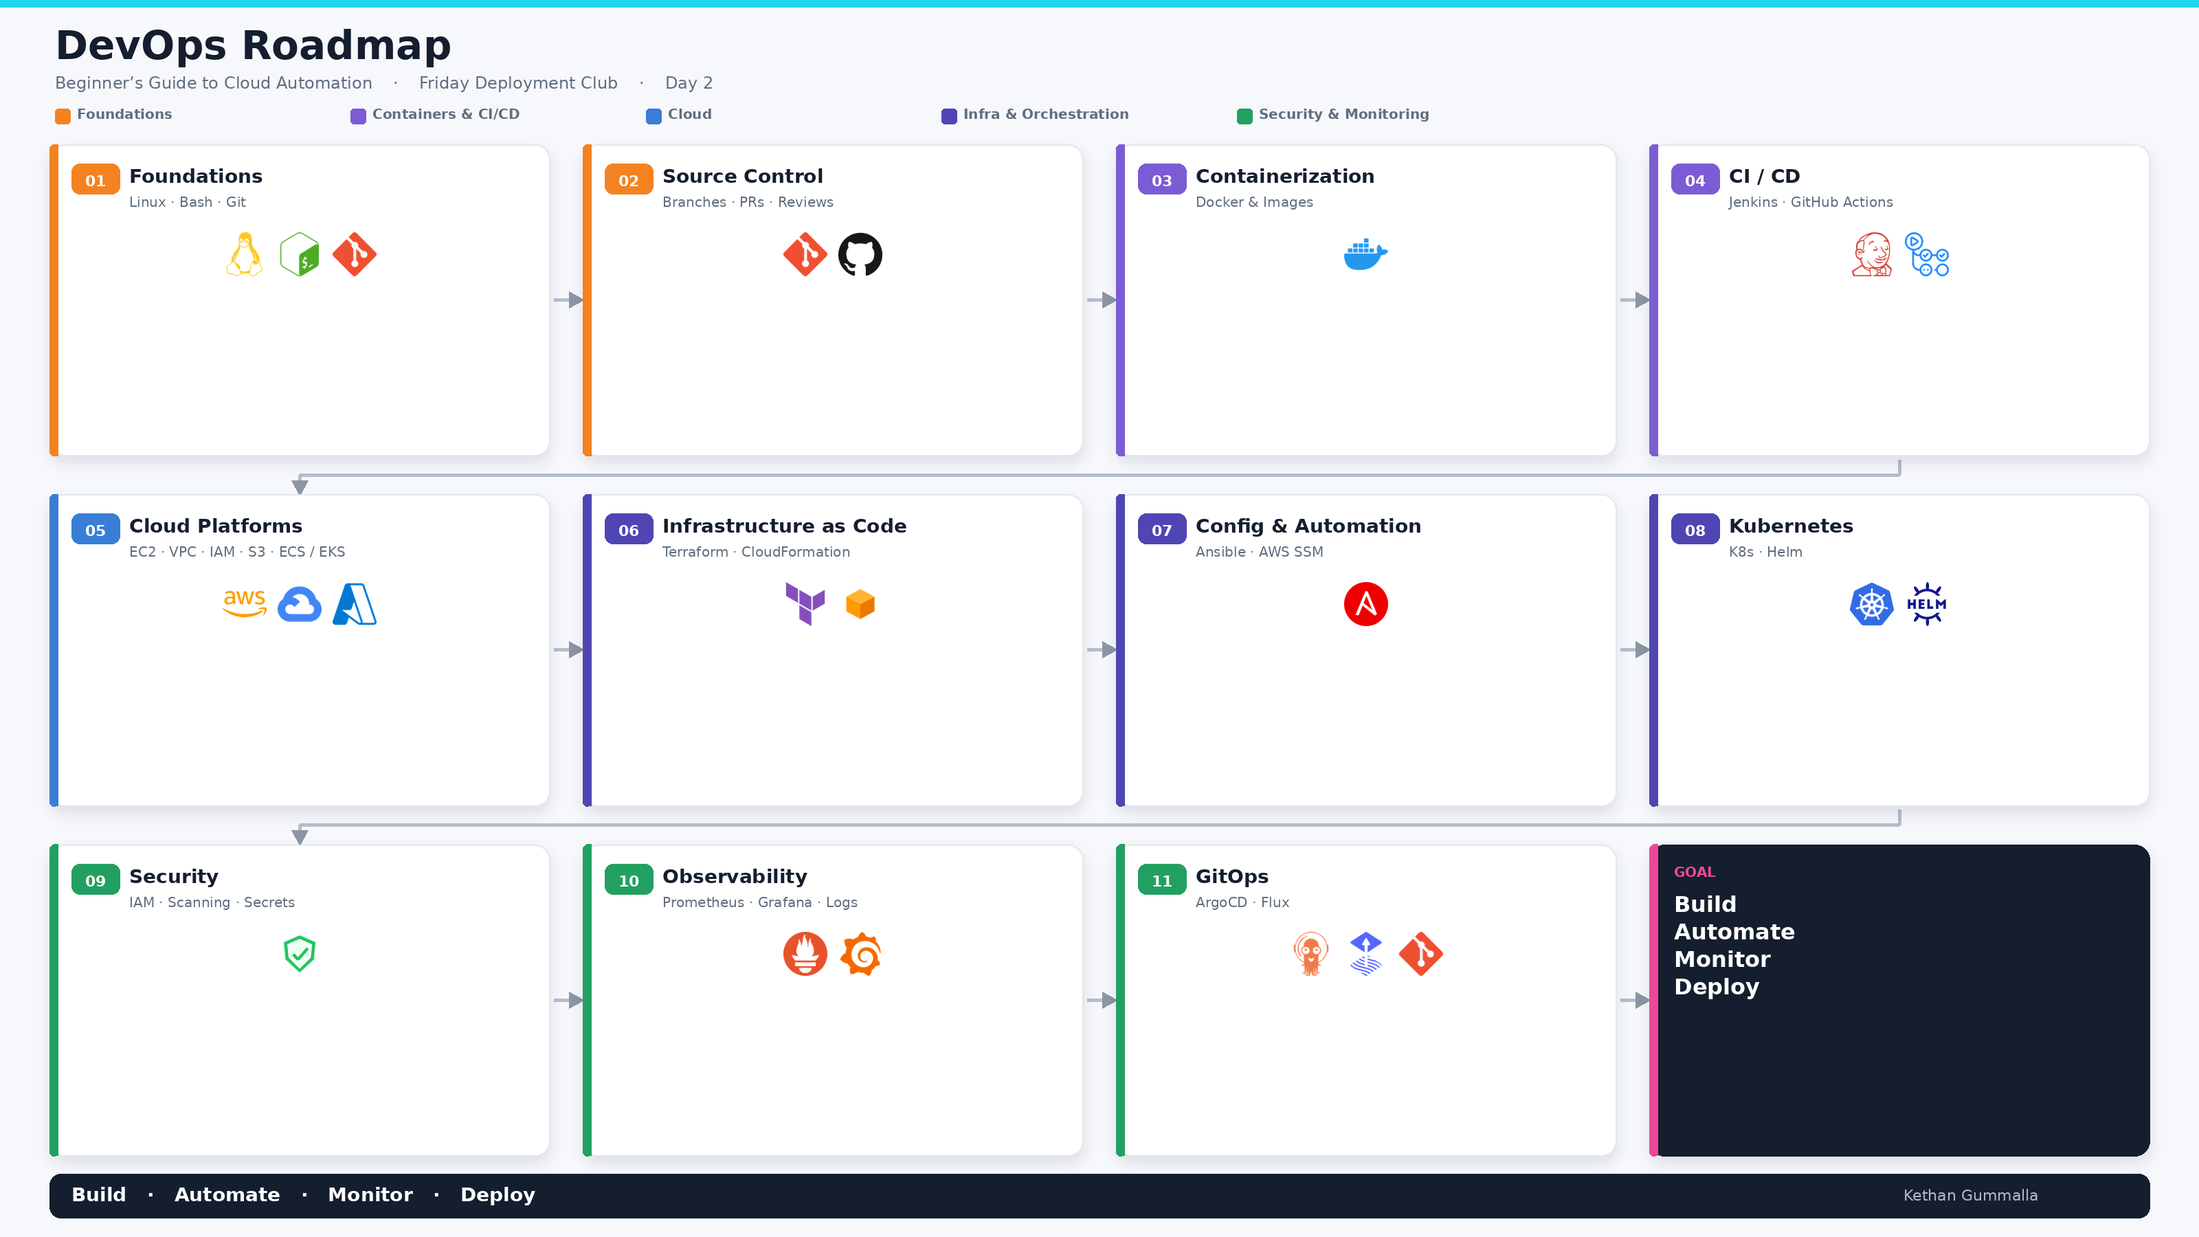
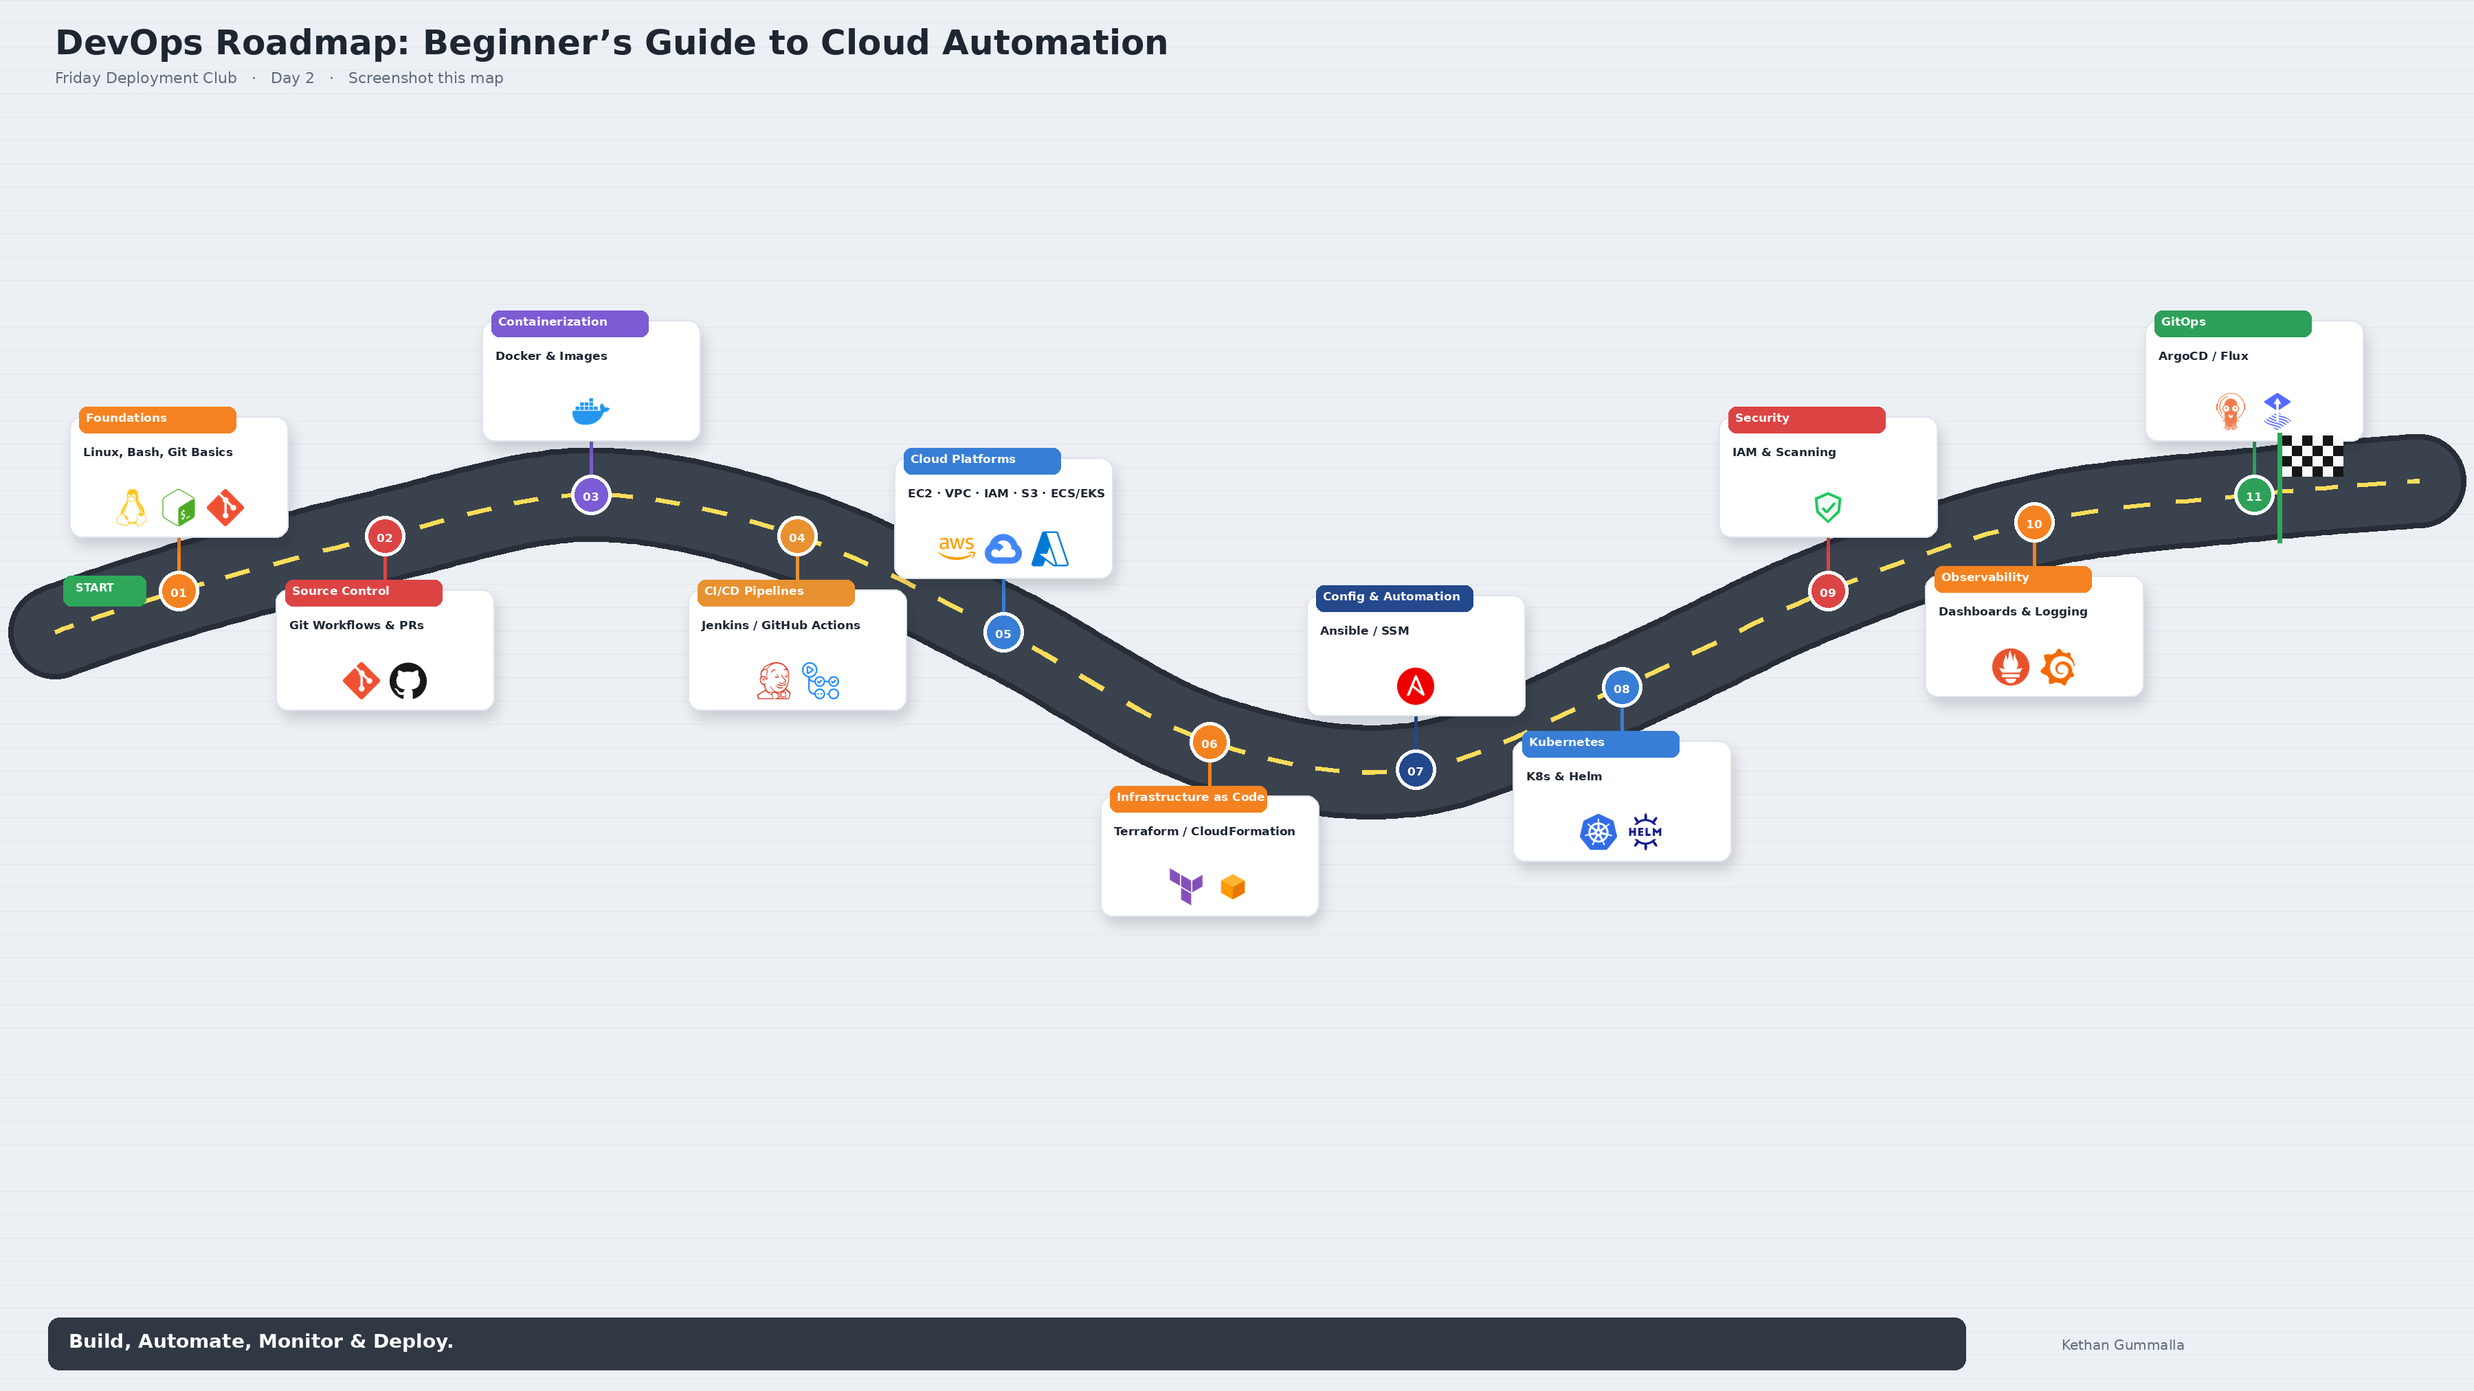
Add on-the-road DevOps infographic preview (pending PPT approval)

diff --git a/fdc-day2/generate_roadmap_infographic.py b/fdc-day2/generate_roadmap_infographic.py
@@ -1,201 +1,209 @@
 #!/usr/bin/env python3
-"""Clean 16:9 DevOps roadmap infographic — equal cards, numbered path."""
+"""Designed on-the-road DevOps infographic (preview before PPT)."""
 
 from pathlib import Path
 from PIL import Image, ImageDraw, ImageFont, ImageFilter
+import math
 
 ROOT = Path(__file__).parent
 LOGOS = ROOT / "assets" / "logos"
 OUT = ROOT / "assets" / "devops_roadmap_infographic.png"
 
-W, H = 3200, 1800
+W, H = 3600, 2025
 
-BG = (246, 248, 252, 255)
+BG = (236, 240, 245, 255)
+INK = (30, 38, 50, 255)
+MUTED = (96, 108, 122, 255)
 WHITE = (255, 255, 255, 255)
-INK = (20, 30, 46, 255)
-MUTED = (96, 110, 126, 255)
-LINE = (226, 232, 240, 255)
-FOOTER = (20, 30, 46, 255)
-
-# Phase accents (match legend)
-P1 = (245, 130, 32)    # Foundations
-P2 = (124, 92, 212)    # Containers & CI/CD
-P3 = (56, 126, 214)    # Cloud
-P4 = (79, 70, 180)     # Infra
-P5 = (34, 160, 98)     # Security & Monitoring
-GOAL = (236, 72, 153)
+ASPHALT = (58, 66, 78, 255)
+EDGE = (40, 46, 56, 255)
+DASH = (255, 220, 80, 240)  # highway yellow
 
 
 def font(size, bold=False):
-    paths = [
-        "/usr/share/fonts/truetype/dejavu/DejaVuSans-Bold.ttf" if bold
-        else "/usr/share/fonts/truetype/dejavu/DejaVuSans.ttf",
-        "/usr/share/fonts/truetype/liberation/LiberationSans-Bold.ttf" if bold
-        else "/usr/share/fonts/truetype/liberation/LiberationSans-Regular.ttf",
-    ]
-    for p in paths:
-        if Path(p).exists():
-            return ImageFont.truetype(p, size)
-    return ImageFont.load_default()
+    p = (
+        "/usr/share/fonts/truetype/dejavu/DejaVuSans-Bold.ttf"
+        if bold
+        else "/usr/share/fonts/truetype/dejavu/DejaVuSans.ttf"
+    )
+    return ImageFont.truetype(p, size)
 
 
 def load_logo(name, size):
-    p = LOGOS / f"{name}.png"
-    if not p.exists():
+    path = LOGOS / f"{name}.png"
+    if not path.exists():
         return None
-    return Image.open(p).convert("RGBA").resize((size, size), Image.Resampling.LANCZOS)
+    return Image.open(path).convert("RGBA").resize((size, size), Image.Resampling.LANCZOS)
 
 
-def shadow(canvas, box, radius=20):
+def catmull(points, n_per=80):
+    """Smooth path through waypoints."""
+    pts = [points[0]] + points + [points[-1]]
+    out = []
+    for i in range(1, len(pts) - 2):
+        p0, p1, p2, p3 = pts[i - 1], pts[i], pts[i + 1], pts[i + 2]
+        for j in range(n_per):
+            t = j / n_per
+            t2, t3 = t * t, t * t * t
+            x = 0.5 * (
+                (2 * p1[0])
+                + (-p0[0] + p2[0]) * t
+                + (2 * p0[0] - 5 * p1[0] + 4 * p2[0] - p3[0]) * t2
+                + (-p0[0] + 3 * p1[0] - 3 * p2[0] + p3[0]) * t3
+            )
+            y = 0.5 * (
+                (2 * p1[1])
+                + (-p0[1] + p2[1]) * t
+                + (2 * p0[1] - 5 * p1[1] + 4 * p2[1] - p3[1]) * t2
+                + (-p0[1] + 3 * p1[1] - 3 * p2[1] + p3[1]) * t3
+            )
+            out.append((x, y))
+    out.append(points[-1])
+    return out
+
+
+def draw_road(canvas, pts, width=118):
+    layer = Image.new("RGBA", canvas.size, (0, 0, 0, 0))
+    d = ImageDraw.Draw(layer)
+    re, r = width // 2 + 8, width // 2
+    for x, y in pts[::2]:
+        d.ellipse((x - re, y - re, x + re, y + re), fill=EDGE)
+    for x, y in pts[::2]:
+        d.ellipse((x - r, y - r, x + r, y + r), fill=ASPHALT)
+    acc, on, last = 0.0, True, pts[0]
+    for p in pts[4::4]:
+        dist = math.hypot(p[0] - last[0], p[1] - last[1])
+        if on:
+            d.line([last, p], fill=DASH, width=7)
+        acc += dist
+        if acc >= 28:
+            acc, on = 0.0, not on
+        last = p
+    canvas.alpha_composite(layer)
+
+
+def card_shadow(canvas, box):
     x0, y0, x1, y1 = box
     layer = Image.new("RGBA", canvas.size, (0, 0, 0, 0))
     d = ImageDraw.Draw(layer)
-    d.rounded_rectangle((x0, y0 + 10, x1, y1 + 10), radius=radius, fill=(15, 25, 40, 28))
-    canvas.alpha_composite(layer.filter(ImageFilter.GaussianBlur(10)))
+    d.rounded_rectangle((x0 + 5, y0 + 12, x1 + 5, y1 + 12), radius=20, fill=(18, 26, 38, 40))
+    canvas.alpha_composite(layer.filter(ImageFilter.GaussianBlur(9)))
 
 
+# Designed rest-stop coordinates (x, y) on the highway
+# Gentle valley in the middle, even spacing, room for cards above/below
+PINS = [
+    (260, 860),
+    (560, 780),
+    (860, 720),
+    (1160, 780),
+    (1460, 920),
+    (1760, 1080),
+    (2060, 1120),
+    (2360, 1000),
+    (2660, 860),
+    (2960, 760),
+    (3280, 720),
+]
+
+# side: "up" or "down"
 STOPS = [
-    (0, 0, "01", "Foundations", "Linux · Bash · Git", ["linux", "bash", "git"], P1),
-    (0, 1, "02", "Source Control", "Branches · PRs · Reviews", ["git", "github"], P1),
-    (0, 2, "03", "Containerization", "Docker & Images", ["docker"], P2),
-    (0, 3, "04", "CI / CD", "Jenkins · GitHub Actions", ["jenkins", "githubactions"], P2),
-    (1, 0, "05", "Cloud Platforms", "EC2 · VPC · IAM · S3 · ECS / EKS", ["amazonaws", "googlecloud", "microsoftazure"], P3),
-    (1, 1, "06", "Infrastructure as Code", "Terraform · CloudFormation", ["terraform", "cloudformation"], P4),
-    (1, 2, "07", "Config & Automation", "Ansible · AWS SSM", ["ansible"], P4),
-    (1, 3, "08", "Kubernetes", "K8s · Helm", ["kubernetes", "helm"], P4),
-    (2, 0, "09", "Security", "IAM · Scanning · Secrets", ["security"], P5),
-    (2, 1, "10", "Observability", "Prometheus · Grafana · Logs", ["prometheus", "grafana"], P5),
-    (2, 2, "11", "GitOps", "ArgoCD · Flux", ["argocd", "flux", "git"], P5),
+    ("01", "Foundations", "Linux, Bash, Git Basics", ["linux", "bash", "git"], (245, 130, 32), "up"),
+    ("02", "Source Control", "Git Workflows & PRs", ["git", "github"], (220, 68, 68), "down"),
+    ("03", "Containerization", "Docker & Images", ["docker"], (124, 92, 212), "up"),
+    ("04", "CI/CD Pipelines", "Jenkins / GitHub Actions", ["jenkins", "githubactions"], (232, 145, 48), "down"),
+    ("05", "Cloud Platforms", "EC2 · VPC · IAM · S3 · ECS/EKS", ["amazonaws", "googlecloud", "microsoftazure"], (56, 126, 214), "up"),
+    ("06", "Infrastructure as Code", "Terraform / CloudFormation", ["terraform", "cloudformation"], (245, 130, 32), "down"),
+    ("07", "Config & Automation", "Ansible / SSM", ["ansible"], (36, 72, 140), "up"),
+    ("08", "Kubernetes", "K8s & Helm", ["kubernetes", "helm"], (56, 126, 214), "down"),
+    ("09", "Security", "IAM & Scanning", ["security"], (220, 68, 68), "up"),
+    ("10", "Observability", "Dashboards & Logging", ["prometheus", "grafana"], (245, 130, 32), "down"),
+    ("11", "GitOps", "ArgoCD / Flux", ["argocd", "flux"], (46, 160, 90), "up"),
 ]
 
 
 def main():
     canvas = Image.new("RGBA", (W, H), BG)
     draw = ImageDraw.Draw(canvas)
+    for y in range(0, H, 34):
+        draw.line((0, y, W, y), fill=(226, 230, 236, 255), width=1)
 
-    draw.rectangle((0, 0, W, 10), fill=(34, 211, 238, 255))
+    draw.text((80, 32), "DevOps Roadmap: Beginner’s Guide to Cloud Automation",
+              font=font(50, True), fill=INK)
+    draw.text((80, 100), "Friday Deployment Club   ·   Day 2   ·   Screenshot this map",
+              font=font(22, False), fill=MUTED)
 
-    draw.text((80, 32), "DevOps Roadmap", font=font(58, True), fill=INK)
-    draw.text((80, 106), "Beginner’s Guide to Cloud Automation    ·    Friday Deployment Club    ·    Day 2",
-              font=font(24, False), fill=MUTED)
+    # extend road a bit past first/last pin
+    waypoints = [(80, 920)] + PINS + [(3520, 700)]
+    path = catmull(waypoints, n_per=70)
+    draw_road(canvas, path, width=120)
 
-    legend = [
-        (P1, "Foundations"),
-        (P2, "Containers & CI/CD"),
-        (P3, "Cloud"),
-        (P4, "Infra & Orchestration"),
-        (P5, "Security & Monitoring"),
-    ]
-    lx = 80
-    for color, label in legend:
-        draw.rounded_rectangle((lx, 158, lx + 22, 180), radius=5, fill=color + (255,))
-        draw.text((lx + 32, 154), label, font=font(20, True), fill=MUTED)
-        lx += 430
+    CW, CH = 318, 176
+    GAP = 78  # air between card and pin (road edge ~60px)
 
-    margin_x, top = 72, 210
-    footer_h = 118
-    gap_x, gap_y = 48, 56
-    cols, rows = 4, 3
-    usable_w = W - 2 * margin_x
-    usable_h = H - top - footer_h
-    cw = (usable_w - (cols - 1) * gap_x) / cols
-    ch = (usable_h - (rows - 1) * gap_y) / rows
+    # connectors + cards
+    for (px, py), stop in zip(PINS, STOPS):
+        num, title, subtitle, logos, color, side = stop
+        if side == "up":
+            cx, cy = px - CW / 2, py - GAP - CH
+        else:
+            cx, cy = px - CW / 2, py + GAP
+        cx = max(28, min(W - CW - 28, cx))
 
-    def box(r, c):
-        x = margin_x + c * (cw + gap_x)
-        y = top + r * (ch + gap_y)
-        return x, y, x + cw, y + ch
+        # short stem from pin to card (does not cross other cards)
+        if side == "up":
+            x1, y1 = px, cy + CH
+        else:
+            x1, y1 = px, cy
+        draw.line((px, py, x1, y1), fill=color + (200,), width=5)
 
-    # arrows in the gutters (not behind cards)
-    def chevron(x, y, color, direction="right"):
-        if direction == "right":
-            draw.polygon([(x - 10, y - 12), (x + 12, y), (x - 10, y + 12)], fill=color + (220,))
-        elif direction == "down":
-            draw.polygon([(x - 12, y - 10), (x + 12, y - 10), (x, y + 12)], fill=color + (220,))
+        card_shadow(canvas, (cx, cy, cx + CW, cy + CH))
+        draw.rounded_rectangle((cx, cy, cx + CW, cy + CH), radius=18, fill=WHITE,
+                               outline=(222, 228, 236, 255), width=2)
+        tab_w = min(228, CW - 20)
+        draw.rounded_rectangle((cx + 14, cy - 14, cx + 14 + tab_w, cy + 24), radius=11, fill=color + (255,))
+        draw.text((cx + 24, cy - 8), title, font=font(17, True), fill=WHITE)
+        draw.text((cx + 20, cy + 42), subtitle, font=font(17, True), fill=INK)
 
-    # row 1 arrows
-    for c in range(3):
-        x0, y0, x1, y1 = box(0, c)
-        nx0, _, _, _ = box(0, c + 1)
-        mid_x = (x1 + nx0) / 2
-        mid_y = (y0 + y1) / 2
-        draw.line((x1 + 6, mid_y, nx0 - 8, mid_y), fill=(180, 190, 205, 255), width=5)
-        chevron(nx0 - 10, mid_y, (140, 150, 165), "right")
-    # down from 04 to 08 then... we'll go 04 → down-left visually as wrap to 05
-    # wrap: from card 04 bottom to card 05 top via left margin
-    a = box(0, 3)
-    b = box(1, 0)
-    draw.line((a[2] - cw / 2, a[3] + 6, a[2] - cw / 2, a[3] + gap_y / 2), fill=(180, 190, 205, 255), width=5)
-    y_mid = a[3] + gap_y / 2
-    draw.line((b[0] + cw / 2, y_mid, a[2] - cw / 2, y_mid), fill=(180, 190, 205, 255), width=5)
-    draw.line((b[0] + cw / 2, y_mid, b[0] + cw / 2, b[1] - 8), fill=(180, 190, 205, 255), width=5)
-    chevron(b[0] + cw / 2, b[1] - 10, (140, 150, 165), "down")
-
-    for c in range(3):
-        x0, y0, x1, y1 = box(1, c)
-        nx0, _, _, _ = box(1, c + 1)
-        mid_y = (y0 + y1) / 2
-        draw.line((x1 + 6, mid_y, nx0 - 8, mid_y), fill=(180, 190, 205, 255), width=5)
-        chevron(nx0 - 10, mid_y, (140, 150, 165), "right")
-
-    a = box(1, 3)
-    b = box(2, 0)
-    y_mid = a[3] + gap_y / 2
-    draw.line((a[2] - cw / 2, a[3] + 6, a[2] - cw / 2, y_mid), fill=(180, 190, 205, 255), width=5)
-    draw.line((b[0] + cw / 2, y_mid, a[2] - cw / 2, y_mid), fill=(180, 190, 205, 255), width=5)
-    draw.line((b[0] + cw / 2, y_mid, b[0] + cw / 2, b[1] - 8), fill=(180, 190, 205, 255), width=5)
-    chevron(b[0] + cw / 2, b[1] - 10, (140, 150, 165), "down")
-
-    for c in range(3):
-        x0, y0, x1, y1 = box(2, c)
-        nx0, _, _, _ = box(2, c + 1)
-        mid_y = (y0 + y1) / 2
-        draw.line((x1 + 6, mid_y, nx0 - 8, mid_y), fill=(180, 190, 205, 255), width=5)
-        chevron(nx0 - 10, mid_y, (140, 150, 165), "right")
-
-    logo_size = 64
-    for r, c, num, title, subtitle, logos, accent in STOPS:
-        x0, y0, x1, y1 = box(r, c)
-        shadow(canvas, (x0, y0, x1, y1))
-        draw.rounded_rectangle((x0, y0, x1, y1), radius=22, fill=WHITE, outline=LINE, width=2)
-        # left accent
-        draw.rounded_rectangle((x0, y0, x0 + 12, y1), radius=8, fill=accent + (255,))
-        draw.rectangle((x0 + 6, y0, x0 + 12, y1), fill=accent + (255,))
-
-        # number
-        bx, by = x0 + 32, y0 + 28
-        draw.rounded_rectangle((bx, by, bx + 70, by + 44), radius=12, fill=accent + (255,))
-        nf = font(22, True)
-        bbox = draw.textbbox((0, 0), num, font=nf)
-        tw, th = bbox[2] - bbox[0], bbox[3] - bbox[1]
-        draw.text((bx + (70 - tw) / 2, by + (44 - th) / 2 - 2), num, font=nf, fill=WHITE)
-
-        draw.text((x0 + 116, y0 + 30), title, font=font(28, True), fill=INK)
-        draw.text((x0 + 116, y0 + 72), subtitle, font=font(20, False), fill=MUTED)
-
-        n = max(len(logos), 1)
-        total = n * logo_size + (n - 1) * 16
-        start_x = x0 + (cw - total) / 2
-        ly = y0 + 128
-        for i, name in enumerate(logos):
-            logo = load_logo(name, logo_size)
+        n = len(logos)
+        ls = 54
+        total = n * ls + max(n - 1, 0) * 14
+        sx = cx + (CW - total) / 2
+        ly = cy + CH - 70
+        for k, name in enumerate(logos):
+            logo = load_logo(name, ls)
             if logo:
-                canvas.alpha_composite(logo, dest=(int(start_x + i * (logo_size + 16)), int(ly)))
+                canvas.alpha_composite(logo, (int(sx + k * (ls + 14)), int(ly)))
 
-    # Goal card
-    x0, y0, x1, y1 = box(2, 3)
-    shadow(canvas, (x0, y0, x1, y1))
-    draw.rounded_rectangle((x0, y0, x1, y1), radius=22, fill=FOOTER)
-    draw.rounded_rectangle((x0, y0, x0 + 12, y1), radius=8, fill=GOAL + (255,))
-    draw.rectangle((x0 + 6, y0, x0 + 12, y1), fill=GOAL + (255,))
-    draw.text((x0 + 36, y0 + 28), "GOAL", font=font(20, True), fill=GOAL + (255,))
-    for i, word in enumerate(["Build", "Automate", "Monitor", "Deploy"]):
-        draw.text((x0 + 36, y0 + 68 + i * 40), word, font=font(32, True), fill=WHITE)
+        # pin
+        r = 24
+        draw.ellipse((px - r - 5, py - r - 5, px + r + 5, py + r + 5), fill=WHITE)
+        draw.ellipse((px - r, py - r, px + r, py + r), fill=color + (255,))
+        f = font(17, True)
+        bb = draw.textbbox((0, 0), num, font=f)
+        tw, th = bb[2] - bb[0], bb[3] - bb[1]
+        draw.text((px - tw / 2, py - th / 2 - 1), num, font=f, fill=WHITE)
 
-    draw.rounded_rectangle((72, H - 92, W - 72, H - 28), radius=16, fill=FOOTER)
-    draw.text((104, H - 78), "Build   ·   Automate   ·   Monitor   ·   Deploy",
-              font=font(28, True), fill=WHITE)
-    draw.text((W - 430, H - 74), "Kethan Gummalla", font=font(22, False), fill=(176, 186, 198, 255))
+    # START plaque to the left of pin 01
+    sx, sy = PINS[0]
+    draw.rounded_rectangle((sx - 168, sy - 22, sx - 48, sy + 22), radius=11, fill=(46, 168, 88, 255))
+    draw.text((sx - 150, sy - 14), "START", font=font(16, True), fill=WHITE)
+
+    # finish flag
+    fx, fy = PINS[-1]
+    flag = Image.new("RGBA", (90, 60), (0, 0, 0, 0))
+    fd = ImageDraw.Draw(flag)
+    cell = 15
+    for i in range(6):
+        for j in range(4):
+            c = (22, 22, 22, 255) if (i + j) % 2 == 0 else (250, 250, 250, 255)
+            fd.rectangle((i * cell, j * cell, (i + 1) * cell, (j + 1) * cell), fill=c)
+    canvas.alpha_composite(flag, (int(fx + 40), int(fy - 86)))
+    draw.rectangle((fx + 34, fy - 90, fx + 40, fy + 70), fill=(46, 168, 88, 255))
+
+    draw.rounded_rectangle((70, 1918, 2860, 1994), radius=16, fill=(48, 56, 68, 255))
+    draw.text((100, 1936), "Build, Automate, Monitor & Deploy.", font=font(28, True), fill=WHITE)
+    draw.text((3000, 1946), "Kethan Gummalla", font=font(20, False), fill=MUTED)
 
     canvas.convert("RGB").save(OUT, "PNG", optimize=True)
     print(f"Wrote {OUT} {canvas.size}")
